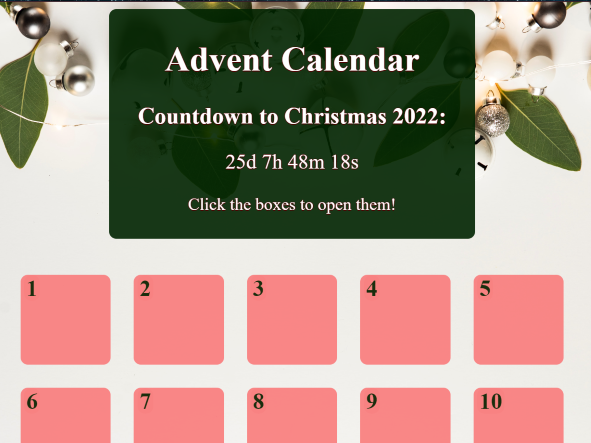
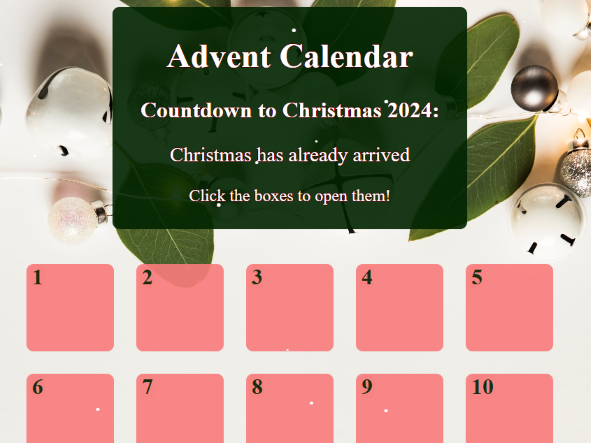
Update advent calendar to 2024 calendar with updated javascript

diff --git a/projects/advent-calendar/adventjs/advent.js b/projects/advent-calendar/adventjs/advent.js
@@ -39,7 +39,7 @@
 // COUNTDOWN TIMER
 //******************************** */
 // Set the date we're counting down to
-const countDownDate = new Date("12/25/2022").getTime();
+const countDownDate = new Date("12/25/2024").getTime();
 
 // Update the count down every 1 second, that's the 1000 at the end of the function
 let x = setInterval(function() {
@@ -57,8 +57,7 @@ let x = setInterval(function() {
   let seconds = Math.floor((distance % (1000 * 60)) / 1000);
     
   // Output the result in an element with id="demo"
-  document.getElementById("countdown").innerHTML = days + "d " + hours + "h "
-  + minutes + "m " + seconds + "s ";
+  document.getElementById("countdown").innerHTML = `${days}d ${hours}h ${minutes}m ${seconds}s`;
     
   // If the count down is over, write some text 
   if (distance < 0) {
@@ -67,11 +66,17 @@ let x = setInterval(function() {
   }
 }, 1000);
 
+//TODO:
+// - Remove redundancies: having boxClick function typed 25 times
+// - Make the boxes so it's not required to input each specific date over and over.
+//   - maybe a function that can calculate the new date based on what box is being populated?
+//FIXME: sdgsdgsgsgd
+
 //******************************** */
 // function occurs on box click getting input for actions 
 //******************************** */
 function boxClick(boxId, adventDate, adventBoxId) {
-    document.querySelector(boxId).addEventListener('click', () => adventFun(adventDate, adventBoxId))
+    document.querySelector(boxId).addEventListener('click', () => adventFun(adventDate, adventBoxId));
 }
 //******************************** */
 // CHECK DATE TO SEE IF WE CAN RUN ADVENT OR NOT, IF NOT ALERT HOW MUCH TIME UNTIL WE CAN
@@ -86,11 +91,12 @@ function checkDate(adventDate){
     let hoursUntil = Math.floor((timeDifference % (1000 * 3600 * 24)) / (1000 * 3600)); 
     let minutesUntil = Math.floor((timeDifference % (1000 * 3600)) / (1000 * 60));
     let secondsUntil = Math.floor((timeDifference % (1000 * 60)) / 1000);
+
     if (date1 >= adventDate ) { //can compare date objects with =, <, >, >=
         return true;
     }
     else { 
-        alert("Today's date is " + today + ". This box will be available on " + adventDay + ". Time until " + adventDay + ": " + daysUntil +" days, " + hoursUntil + " hours, " + minutesUntil + " minutes, " + secondsUntil + " seconds!");
+        alert(`Today's date is ${today}. This box will be available on ${adventDay}. Time until ${adventDay}: ${daysUntil} days, ${hoursUntil} hours, ${minutesUntil} minutes, ${secondsUntil} seconds!`);
         }  
 }
 //******************************** */
@@ -109,152 +115,171 @@ function activateBox(adventBoxId){
 }
 
 //******************************** */
-// BOX 1 DONE
+// Loop to Register Event Listeners Dynamically
 //******************************** */
-// Available to click 12/1/22
-boxClick('#box_1', '12/01/2022', '#box_1_advent');
-
-
-//******************************** */
-// BOX 2 DONE
-//******************************** */
-// Available to click 12/2/22
-boxClick('#box_2', '12/02/2022', '#box_2_advent');
-
-//******************************** */
-// BOX 3 DONE
-//******************************** */
-// Available to click 12/3/22
-boxClick('#box_3', '12/03/2022', '#box_3_advent');
+function initializeBoxes(){
+    const adventStartDate = new Date("12/01/2024");
+    for (let i = 1; i <= 25; i++) {
+        const adventDate = new Date(adventStartDate);
+        adventDate.setDate(adventStartDate.getDate() + (i - 1));
+        // toISOSting converts date object to ISO 8601 string: eg 2024-12-01T00:00:00.000Z
+        // split('T)[0] splits into 2 strings, [0] index retrieves date portion
+        boxClick(`#box_${i}`, adventDate.toISOString().split('T')[0], `#box_${i}_advent`);
+    }
+}
 
 //******************************** */
-// BOX 4 DONE
+// REPLACES CREATING EACH BOX INDIVIDUALLY
 //******************************** */
-// Available to click 12/4/22
-boxClick('#box_4', '12/04/2022', '#box_4_advent');
+initializeBoxes();
 
-//******************************** */
-// BOX 5 DONE
-//******************************** */
-// Available to click 12/5/22
-boxClick('#box_5', '12/05/2022', '#box_5_advent');
+// //******************************** */
+// // BOX 1 DONE
+// //******************************** */
+// // Available to click 12/1/22
+// boxClick('#box_1', '12/01/2024', '#box_1_advent');
 
-//******************************** */
-// BOX 6 DONE
-//******************************** */
-// Available to click 12/6/22
-boxClick('#box_6', '12/06/2022', '#box_6_advent');
 
-//******************************** */
-// BOX 7 DONE
-//******************************** */
-// Available to click 12/7/22
-boxClick('#box_7', '12/07/2022', '#box_7_advent');
+// //******************************** */
+// // BOX 2 DONE
+// //******************************** */
+// // Available to click 12/2/22
+// boxClick('#box_2', '12/02/2022', '#box_2_advent');
 
-//******************************** */
-// BOX 8 DONE
-//******************************** */
-// Available to click 12/8/22
-boxClick('#box_8', '12/08/2022', '#box_8_advent');
+// //******************************** */
+// // BOX 3 DONE
+// //******************************** */
+// // Available to click 12/3/22
+// boxClick('#box_3', '12/03/2022', '#box_3_advent');
 
-//******************************** */
-// BOX 9 DONE 
-//******************************** */
-// Available to click 12/9/22
-boxClick('#box_9', '12/09/2022', '#box_9_advent');
+// //******************************** */
+// // BOX 4 DONE
+// //******************************** */
+// // Available to click 12/4/22
+// boxClick('#box_4', '12/04/2022', '#box_4_advent');
 
-//******************************** */
-// BOX 10 DONE
-//******************************** */
-// Available to click 12/10/22
-boxClick('#box_10', '12/10/2022', '#box_10_advent');
+// //******************************** */
+// // BOX 5 DONE
+// //******************************** */
+// // Available to click 12/5/22
+// boxClick('#box_5', '12/05/2022', '#box_5_advent');
 
-//******************************** */
-// BOX 11 DONE
-//******************************** */
-// Available to click 12/11/22
-boxClick('#box_11', '12/11/2022', '#box_11_advent');
+// //******************************** */
+// // BOX 6 DONE
+// //******************************** */
+// // Available to click 12/6/22
+// boxClick('#box_6', '12/06/2022', '#box_6_advent');
 
-//******************************** */
-// BOX 12 DONE
-//******************************** */
-// Available to click 12/12/22
-boxClick('#box_12', '12/12/2022', '#box_12_advent');
+// //******************************** */
+// // BOX 7 DONE
+// //******************************** */
+// // Available to click 12/7/22
+// boxClick('#box_7', '12/07/2024', '#box_7_advent');
 
-//******************************** */
-// BOX 13 DONE
-//******************************** */
-// Available to click 12/13/22
-boxClick('#box_13', '12/13/2022', '#box_13_advent');
+// //******************************** */
+// // BOX 8 DONE
+// //******************************** */
+// // Available to click 12/8/22
+// boxClick('#box_8', '12/08/2022', '#box_8_advent');
 
-//******************************** */
-// BOX 14 DONE
-//******************************** */
-// Available to click 12/14/22
-boxClick('#box_14', '12/14/2022', '#box_14_advent');
+// //******************************** */
+// // BOX 9 DONE 
+// //******************************** */
+// // Available to click 12/9/22
+// boxClick('#box_9', '12/09/2022', '#box_9_advent');
 
-//******************************** */
-// BOX 15 DONE
-//******************************** */
-// Available to click 12/15/22
-boxClick('#box_15', '12/15/2022', '#box_15_advent');
+// //******************************** */
+// // BOX 10 DONE
+// //******************************** */
+// // Available to click 12/10/22
+// boxClick('#box_10', '12/10/2022', '#box_10_advent');
 
-//******************************** */
-// BOX 16 DONE
-//******************************** */
-// Available to click 12/16/22
-boxClick('#box_16', '12/16/2022', '#box_16_advent');
+// //******************************** */
+// // BOX 11 DONE
+// //******************************** */
+// // Available to click 12/11/22
+// boxClick('#box_11', '12/11/2022', '#box_11_advent');
 
-//******************************** */
-// BOX 17 DONE
-//******************************** */
-// Available to click 12/17/22
-boxClick('#box_17', '12/17/2022', '#box_17_advent');
+// //******************************** */
+// // BOX 12 DONE
+// //******************************** */
+// // Available to click 12/12/22
+// boxClick('#box_12', '12/12/2022', '#box_12_advent');
 
-//******************************** */
-// BOX 18 DONE
-//******************************** */
-// Available to click 12/18/22
-boxClick('#box_18', '12/18/2022', '#box_18_advent');
+// //******************************** */
+// // BOX 13 DONE
+// //******************************** */
+// // Available to click 12/13/22
+// boxClick('#box_13', '12/13/2022', '#box_13_advent');
 
-//******************************** */
-// BOX 19 DONE
-//******************************** */
-// Available to click 12/19/22
-boxClick('#box_19', '12/19/2022', '#box_19_advent');
+// //******************************** */
+// // BOX 14 DONE
+// //******************************** */
+// // Available to click 12/14/22
+// boxClick('#box_14', '12/14/2022', '#box_14_advent');
 
-//******************************** */
-// BOX 20 DONE
-//******************************** */
-// Available to click 12/20/22
-boxClick('#box_20', '12/20/2022', '#box_20_advent');
+// //******************************** */
+// // BOX 15 DONE
+// //******************************** */
+// // Available to click 12/15/22
+// boxClick('#box_15', '12/15/2022', '#box_15_advent');
 
-//******************************** */
-// BOX 21 DONE
-//******************************** */
-// Available to click 12/21/22
-boxClick('#box_21', '12/21/2022', '#box_21_advent');
+// //******************************** */
+// // BOX 16 DONE
+// //******************************** */
+// // Available to click 12/16/22
+// boxClick('#box_16', '12/16/2022', '#box_16_advent');
 
-//******************************** */
-// BOX 22 DONE
-//******************************** */
-// Available to click 12/22/22
-boxClick('#box_22', '12/22/2022', '#box_22_advent');
+// //******************************** */
+// // BOX 17 DONE
+// //******************************** */
+// // Available to click 12/17/22
+// boxClick('#box_17', '12/17/2022', '#box_17_advent');
 
-//******************************** */
-// BOX 23 DONE
-//******************************** */
-// Available to click 12/23/22
-boxClick('#box_23', '12/23/2022', '#box_23_advent');
+// //******************************** */
+// // BOX 18 DONE
+// //******************************** */
+// // Available to click 12/18/22
+// boxClick('#box_18', '12/18/2022', '#box_18_advent');
 
-//******************************** */
-// BOX 24 DONE
-//******************************** */
-// Available to click 12/24/22
-boxClick('#box_24', '12/24/2022', '#box_24_advent');
+// //******************************** */
+// // BOX 19 DONE
+// //******************************** */
+// // Available to click 12/19/22
+// boxClick('#box_19', '12/19/2022', '#box_19_advent');
 
-//******************************** */
-// BOX 25 DONE
-//******************************** */
-// Available to click 12/25/22
-boxClick('#box_25', '12/25/2022', '#box_25_advent');
+// //******************************** */
+// // BOX 20 DONE
+// //******************************** */
+// // Available to click 12/20/22
+// boxClick('#box_20', '12/20/2022', '#box_20_advent');
+
+// //******************************** */
+// // BOX 21 DONE
+// //******************************** */
+// // Available to click 12/21/22
+// boxClick('#box_21', '12/21/2022', '#box_21_advent');
+
+// //******************************** */
+// // BOX 22 DONE
+// //******************************** */
+// // Available to click 12/22/22
+// boxClick('#box_22', '12/22/2022', '#box_22_advent');
+
+// //******************************** */
+// // BOX 23 DONE
+// //******************************** */
+// // Available to click 12/23/22
+// boxClick('#box_23', '12/23/2022', '#box_23_advent');
+
+// //******************************** */
+// // BOX 24 DONE
+// //******************************** */
+// // Available to click 12/24/22
+// boxClick('#box_24', '12/24/2022', '#box_24_advent');
+
+// //******************************** */
+// // BOX 25 DONE
+// //******************************** */
+// // Available to click 12/25/22
+// boxClick('#box_25', '12/25/2022', '#box_25_advent');

diff --git a/projects/advent-calendar/index.html b/projects/advent-calendar/index.html
@@ -6,7 +6,7 @@
         <meta http-equiv="X-UA-Compatible" content="IE=edge">
         <meta name="viewport" content="width=device-width, initial-scale=1.0">
 
-		<title>Advent Calendar</title>
+		<title>2024 Advent Calendar</title>
         <!-- Add link preview when sharing-->
         <meta property="og:title" content="Advent Calendar" />
         <meta name="twitter:title" content="Advent Calendar" />
@@ -30,7 +30,7 @@
 	<body id="bodybg">
         <header>
             <h1>Advent Calendar</h1>
-            <h2>Countdown to Christmas 2022:</h2>
+            <h2>Countdown to Christmas 2024:</h2>
             <p id="countdown"></p>
             <p>Click the boxes to open them!</p>
         </header>

diff --git a/projects/advent-calendar/README.md b/projects/advent-calendar/README.md
@@ -1,0 +1,1 @@
+# advent24
